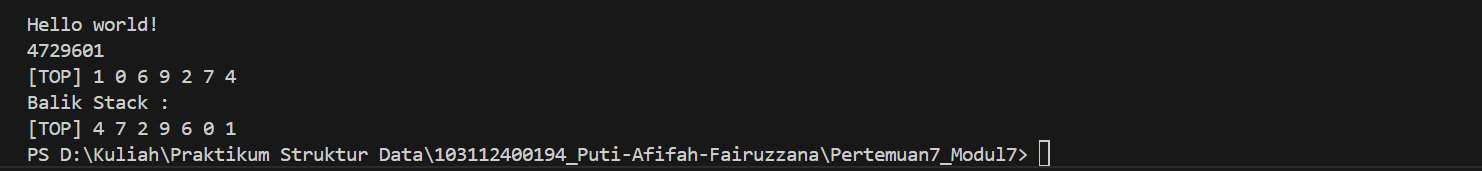
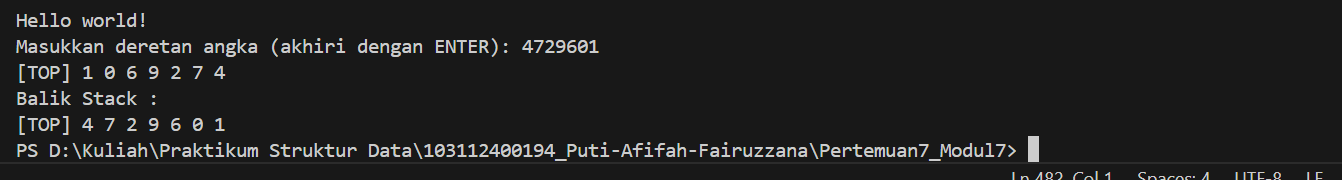
Pertemuan7_Modul7

Changed region(s): [[0.0, 0.2047, 0.7943, 0.9649], [0.7332, 0.9357, 1.0, 1.0], [0.0, 0.0585, 0.1222, 0.2047]]

diff --git a/Pertemuan7_Modul7/Stack.cpp b/Pertemuan7_Modul7/Stack.cpp
@@ -78,6 +78,7 @@ void pushAscending(Stack &S, int x) {
 void getInputStream(Stack &S) {
     char c;
     
+    cout << "Masukkan deretan angka (akhiri dengan ENTER): ";
     cin.get(c);
 
     while (c != '\n'){

diff --git a/Pertemuan7_Modul7/Laporan-Modul(7).md b/Pertemuan7_Modul7/Laporan-Modul(7).md
@@ -471,6 +471,7 @@ void pushAscending(Stack &S, int x) {
 void getInputStream(Stack &S) {
     char c;
     
+    cout << "Masukkan deretan angka (akhiri dengan ENTER): ";
     cin.get(c);
 
     while (c != '\n'){
@@ -478,6 +479,7 @@ void getInputStream(Stack &S) {
         cin.get(c);
     }
 }
+
 ```
 
 file main.cpp
